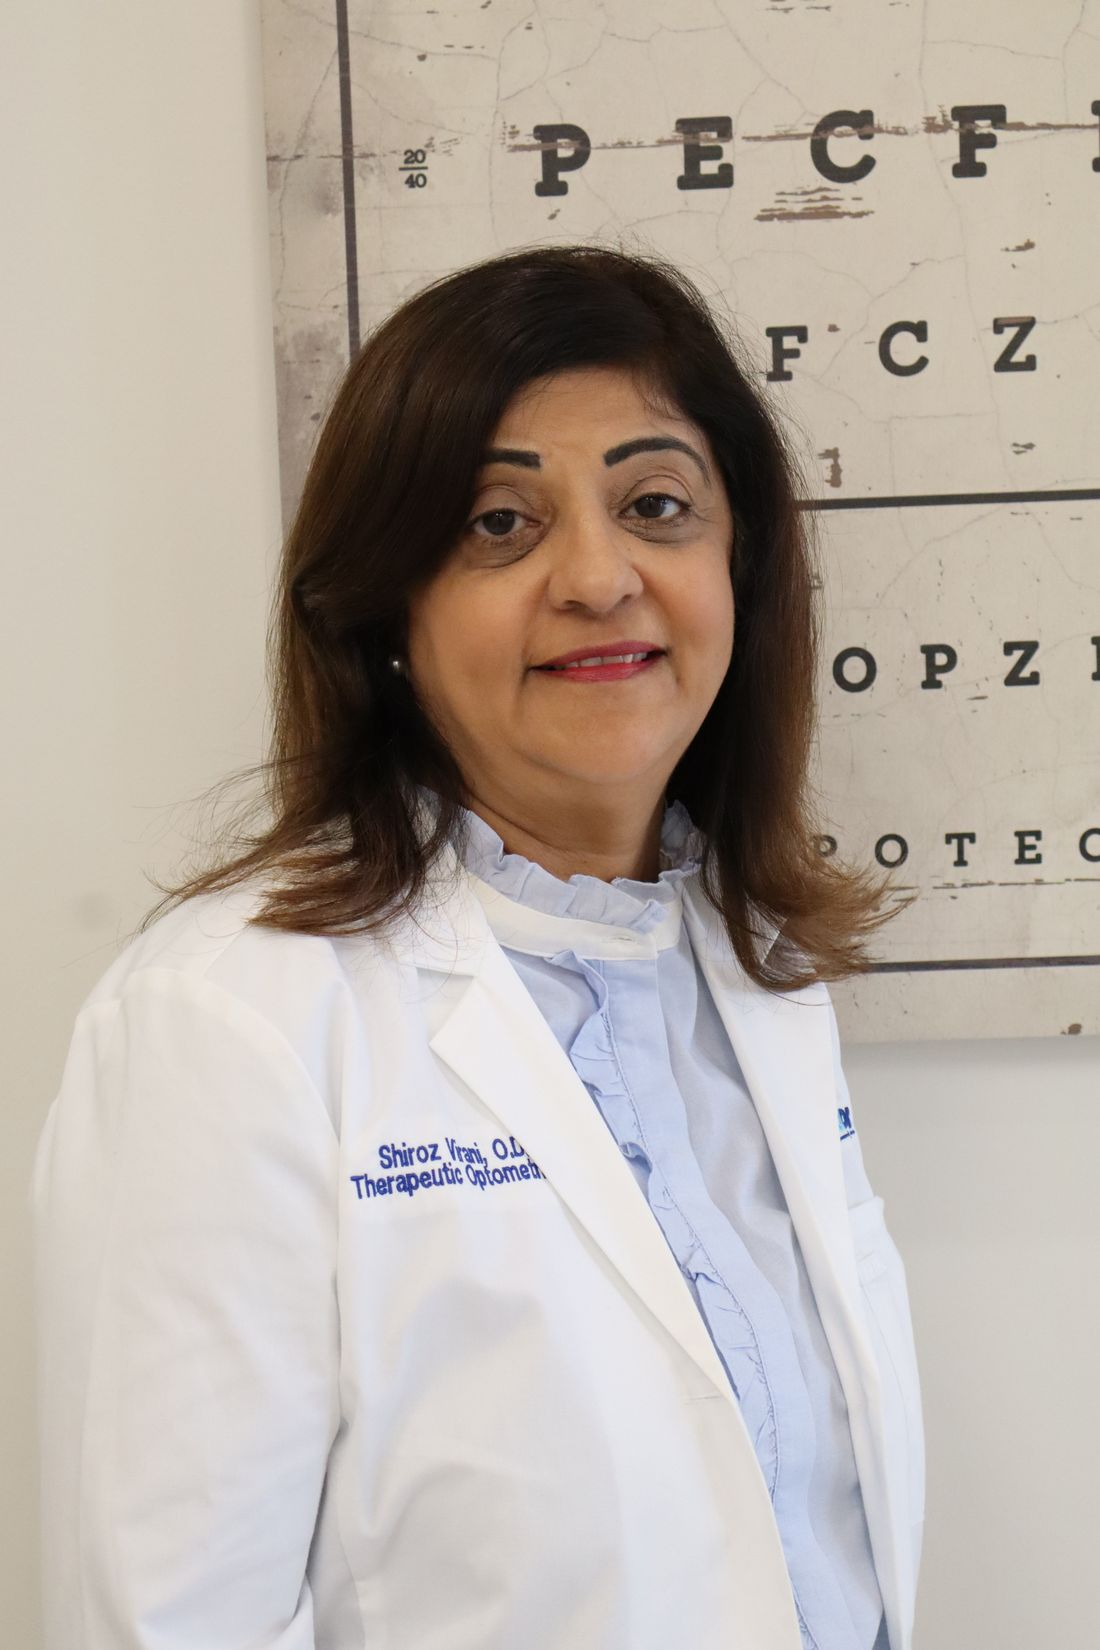
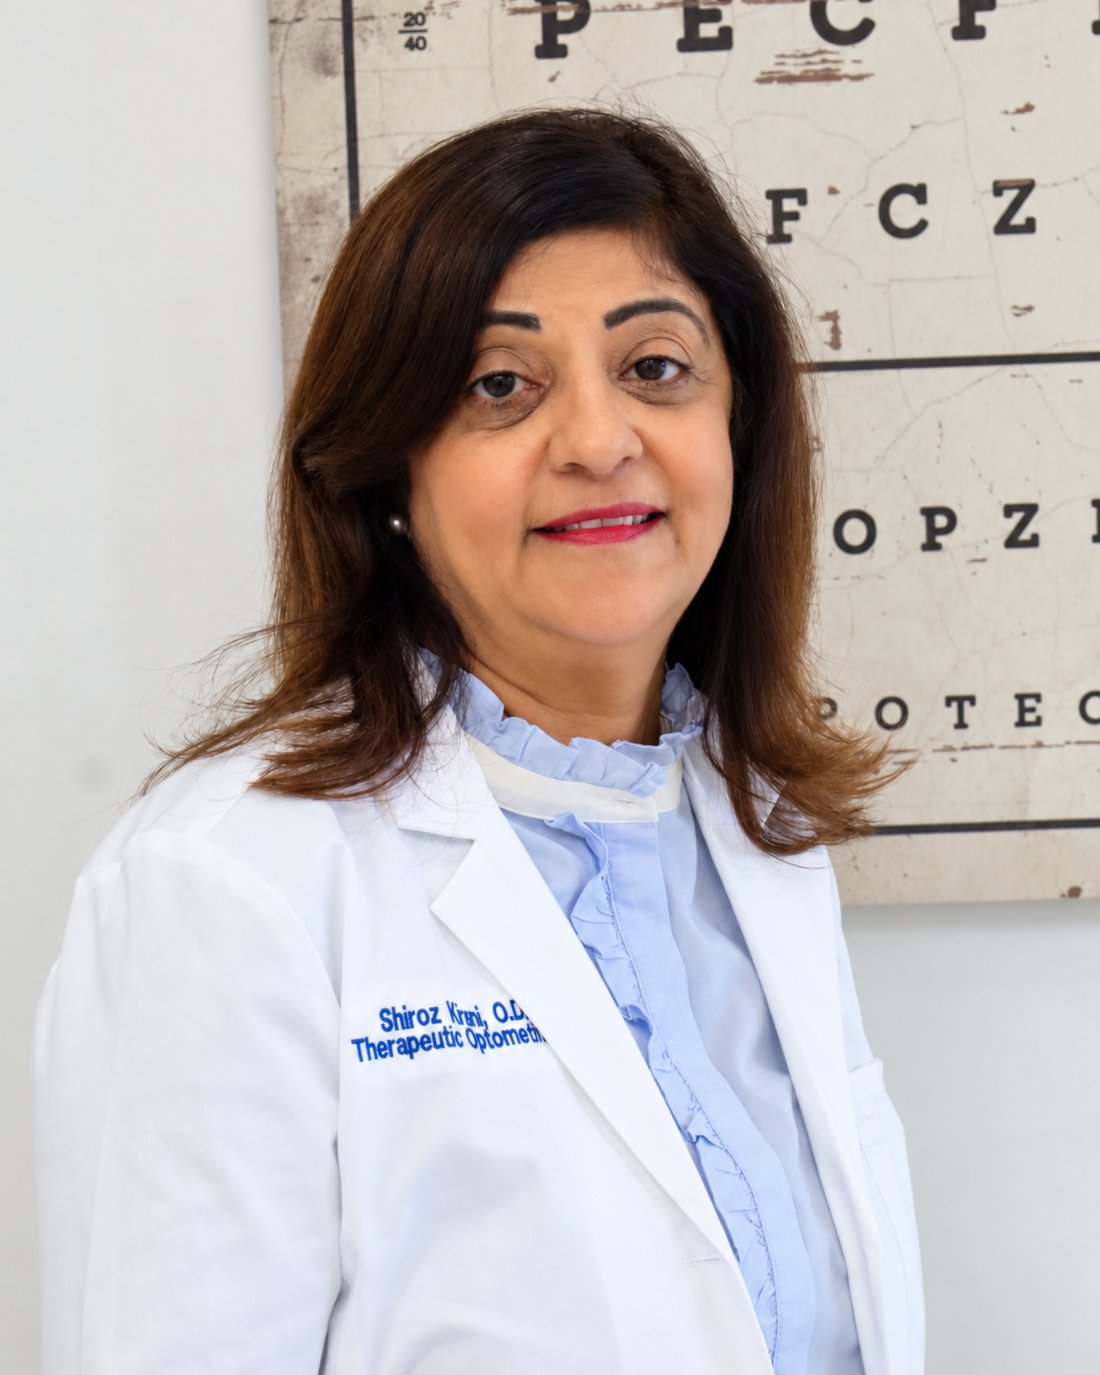
Update Dr. Virani portrait and add VSP ad to insurance page

diff --git a/app/insurance/page.js b/app/insurance/page.js
@@ -93,6 +93,27 @@ export default function InsurancePage() {
             Call 281-916-2020
           </a>
         </div>
+
+        {/* VSP Individual Vision Plan ad (paid per click-through) */}
+        <div className="max-w-[1180px] mx-auto mt-10 flex justify-center">
+          <a
+            href="https://www.saveonvision.com/l/FIRSTCOLONYE/"
+            target="_blank"
+            rel="noopener sponsored"
+            className="block w-full max-w-[382px] rounded-xl overflow-hidden"
+            style={{ boxShadow: '0 1px 2px rgba(16,40,42,.05),0 16px 32px -22px rgba(13,93,98,.2)' }}
+          >
+            {/* eslint-disable-next-line @next/next/no-img-element */}
+            <img
+              src="https://cdn.vsp.com/dam/jcr:d48a0bcf-6af2-47f3-b3cc-77a149d03554/143229-26-VG-563x308-C.jpg"
+              alt="Cover the whole family with a VSP Individual Vision Plan. See plans."
+              width={563}
+              height={308}
+              loading="lazy"
+              className="w-full h-auto"
+            />
+          </a>
+        </div>
       </section>
 
       {/* Payment options */}
